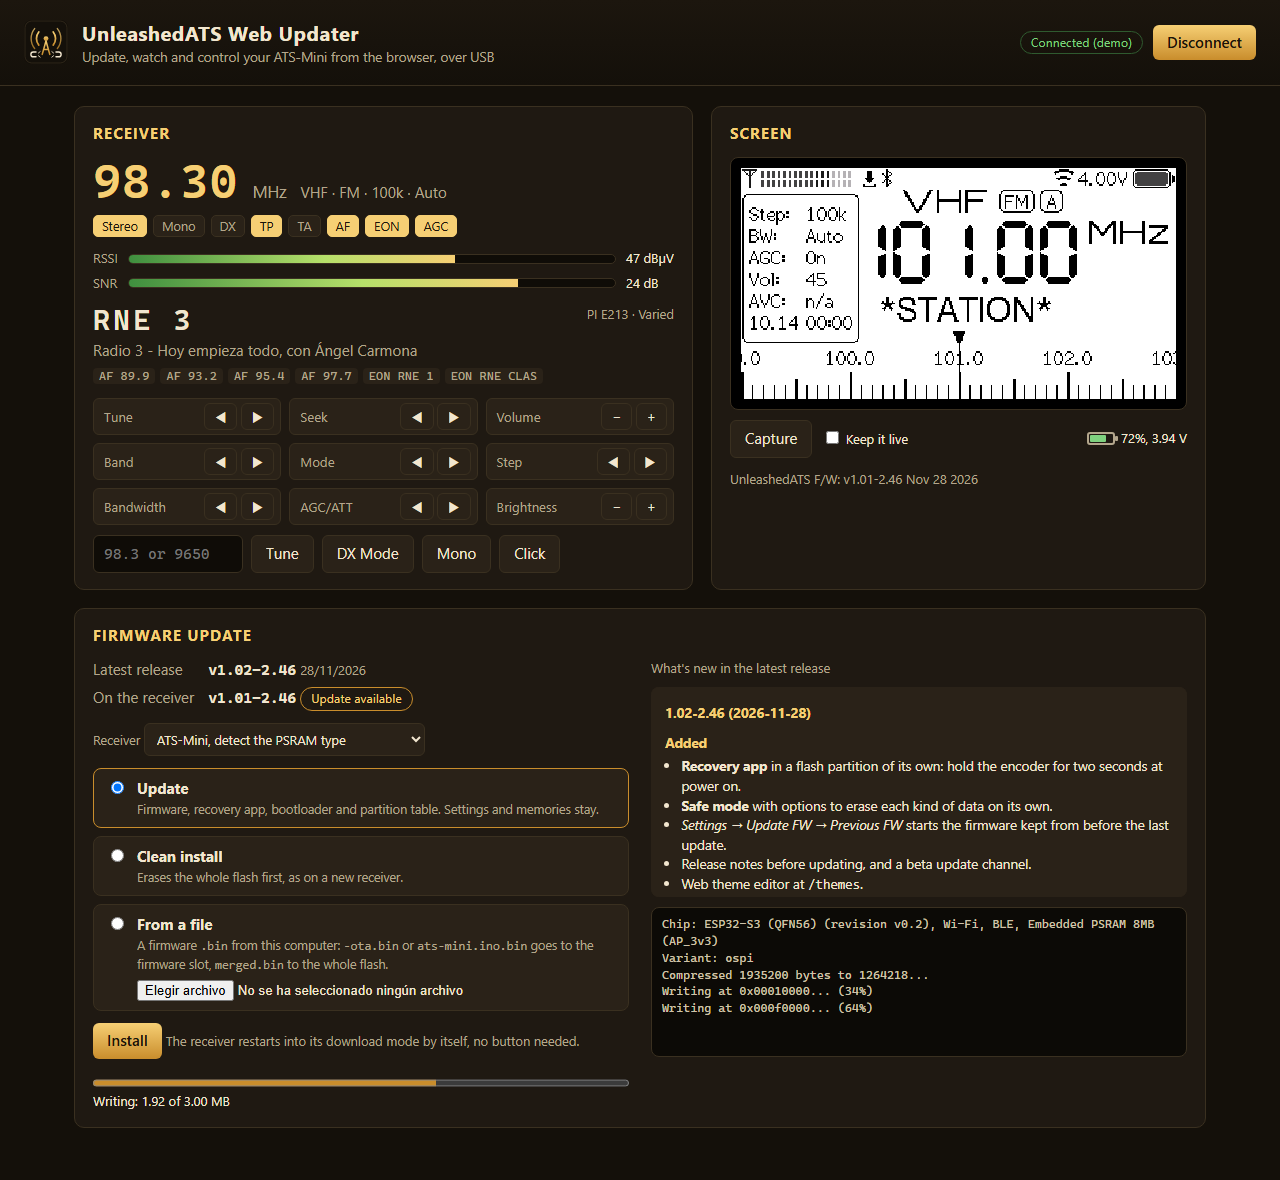
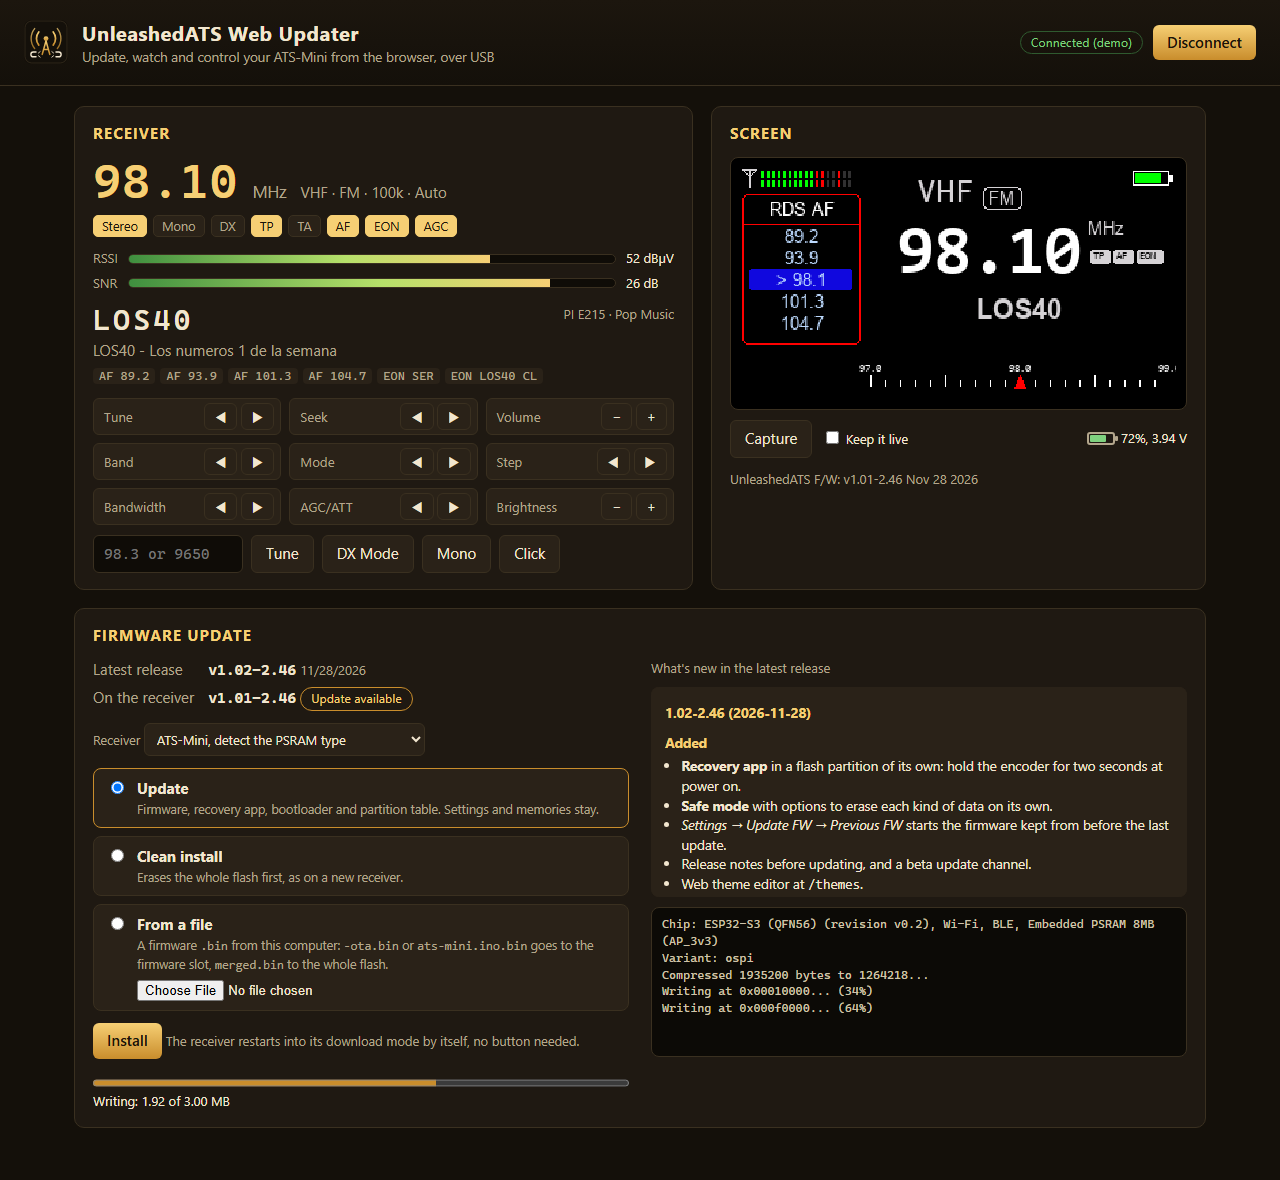
Use real receiver screens on the website
The hero and the gallery show screens captured from the receiver, one
per card with its caption as page text, and the updater and remote
pictures are taken again with matching data.

diff --git a/site/index.html b/site/index.html
@@ -73,8 +73,8 @@
   .device { background: linear-gradient(160deg, #3a2f26, #1d1712); border-radius: 34px; padding: 22px; box-shadow: 0 40px 70px -30px rgba(60, 30, 5, .55);
             transform: rotate(-2.5deg); transition: transform .6s cubic-bezier(.2, .9, .3, 1.2); }
   .device:hover { transform: rotate(0deg) scale(1.02); }
-  .device .screen { border-radius: 16px; overflow: hidden; aspect-ratio: 975 / 520; background: #000; }
-  .device .screen img { width: 204%; max-width: none; margin: -3% 0 0 -1.2%; }
+  .device .screen { border-radius: 16px; overflow: hidden; aspect-ratio: 320 / 170; background: #000; }
+  .device .screen img { width: 100%; height: 100%; object-fit: cover; image-rendering: pixelated; }
   .device .knob { display: flex; justify-content: space-between; align-items: center; margin-top: 16px; color: #b9a58a; font-weight: 800; font-size: .9em; }
   .device .knob i { width: 46px; height: 46px; border-radius: 50%; background: radial-gradient(circle at 35% 30%, #6b5a4a, #2a211a); box-shadow: inset 0 2px 4px rgba(255, 255, 255, .12), 0 6px 14px rgba(0, 0, 0, .4); }
 
@@ -98,7 +98,14 @@
   .why .card .icon { flex: none; margin: 0; }
 
   /* Gallery */
-  .shots { display: grid; grid-template-columns: 1.4fr 1fr; gap: 22px; }
+  .screens { display: grid; grid-template-columns: repeat(auto-fill, minmax(300px, 1fr)); gap: 22px; margin-bottom: 22px; }
+  .tile { margin: 0; background: var(--card); border-radius: var(--radius); padding: 12px; box-shadow: var(--shadow); transition: transform .35s cubic-bezier(.2, .9, .3, 1.3), box-shadow .35s; }
+  .tile:hover { transform: translateY(-6px) rotate(-.6deg); box-shadow: var(--shadow-hover); }
+  .tile img { border-radius: 14px; background: #000; aspect-ratio: 320 / 170; width: 100%; image-rendering: pixelated; }
+  .tile figcaption { padding: 10px 6px 2px; }
+  .tile b { display: block; font-weight: 800; }
+  .tile span { color: var(--muted); font-size: .92em; }
+  .shots { display: grid; grid-template-columns: 1fr 1fr; gap: 22px; }
   @media (max-width: 900px) { .shots { grid-template-columns: 1fr; } }
   .shot { background: var(--card); border-radius: var(--radius); padding: 14px; box-shadow: var(--shadow); transition: transform .35s; }
   .shot:hover { transform: translateY(-5px); }
@@ -164,7 +171,7 @@
       </div>
     </div>
     <div class="device reveal">
-      <div class="screen"><img src="assets/welcome.png" alt="The UnleashedATS welcome screen on the receiver"></div>
+      <div class="screen"><img src="assets/screens/rds-af.png" alt="The receiver on 98.1 MHz with its RDS AF list open"></div>
       <div class="knob"><span>ATS-Mini · UnleashedATS</span><i></i></div>
     </div>
   </div>
@@ -212,13 +219,21 @@
   <div class="wrap">
     <div class="kicker">Have a look</div>
     <h2>On the receiver and on your screen</h2>
-    <p class="intro">The new menus on the receiver, the FM-DX style remote and the web updater.</p>
+    <p class="intro">Real screens of the receiver running UnleashedATS, the FM-DX style remote and the web updater.</p>
+    <div class="screens">
+      <figure class="tile reveal"><img src="assets/screens/menu.png" alt=""><figcaption><b>New menu entries</b><span>Mem Scan, Auto Store, Stations, RDS AF and EON</span></figcaption></figure>
+      <figure class="tile reveal"><img src="assets/screens/stations-spain.png" alt=""><figcaption><b>Stations by province</b><span>Browse your country's list and tune</span></figcaption></figure>
+      <figure class="tile reveal"><img src="assets/screens/listed-name.png" alt=""><figcaption><b>Names without RDS</b><span>Your province's stations, named on screen</span></figcaption></figure>
+      <figure class="tile reveal"><img src="assets/screens/rds-af.png" alt=""><figcaption><b>RDS AF list</b><span>Every frequency of the station, ready to tune</span></figcaption></figure>
+      <figure class="tile reveal"><img src="assets/screens/eon-networks.png" alt=""><figcaption><b>RDS EON</b><span>The other networks a station announces</span></figcaption></figure>
+      <figure class="tile reveal"><img src="assets/screens/auto-store.png" alt=""><figcaption><b>Auto Store</b><span>Fill the memories from a band sweep</span></figcaption></figure>
+      <figure class="tile reveal"><img src="assets/screens/mem-scan.png" alt=""><figcaption><b>Mem Scan</b><span>Hop through the memories that are live</span></figcaption></figure>
+      <figure class="tile reveal"><img src="assets/screens/dx-mode.png" alt=""><figcaption><b>DX Mode</b><span>For the weakest stations</span></figcaption></figure>
+      <figure class="tile reveal"><img src="assets/screens/load-europe.png" alt=""><figcaption><b>Load Stations</b><span>Pick a country to download</span></figcaption></figure>
+    </div>
     <div class="shots">
-      <figure class="shot reveal" style="margin:0"><img src="assets/menus.png" alt="The new menus on the receiver"><figcaption>Mem Scan, Auto Store, station lists, RDS AF and EON, DX Mode</figcaption></figure>
-      <div class="stack">
-        <figure class="shot reveal" style="margin:0"><img src="assets/remote.png" alt="The FM-DX style remote page"><figcaption>The FM-DX style remote</figcaption></figure>
-        <figure class="shot reveal" style="margin:0"><img src="assets/updater.png" alt="The web updater"><figcaption>The web updater, with the receiver live</figcaption></figure>
-      </div>
+      <figure class="shot reveal" style="margin:0"><img src="assets/remote.png" alt="The FM-DX style remote page"><figcaption>The FM-DX style remote, on the receiver's own web server</figcaption></figure>
+      <figure class="shot reveal" style="margin:0"><img src="assets/updater.png" alt="The web updater"><figcaption>The web updater, with the receiver live while it installs</figcaption></figure>
     </div>
   </div>
 </section>

diff --git a/site/update/index.html b/site/update/index.html
@@ -376,7 +376,7 @@ async function shoot() {
   if (shooting || (!port && !DEMO)) return;
   shooting = true;
   try {
-    if (DEMO) { $('screen').src = '../assets/screen-main.png'; return; }
+    if (DEMO) { $('screen').src = '../assets/screens/rds-af.png'; return; }
     const wasOn = monitorOn;
     if (wasOn) { await send('J'); monitorOn = false; await new Promise((r) => setTimeout(r, 200)); }
     const bmp = await new Promise((resolve, reject) => {
@@ -517,10 +517,10 @@ loadLatest();
 
 if (DEMO) {
   linkState('Connected (demo)', 'ok'); $('connect').textContent = 'Disconnect'; $('shot').disabled = false;
-  showStatus({ fw: 'UnleashedATS F/W: v1.01-2.46 Nov 28 2026', freq: 98300000, band: 'VHF', mode: 'FM', step: '100k', bw: 'Auto',
-    agc: 0, vol: 35, rssi: 47, snr: 24, stereo: true, dx: false, mono: false, tp: true, ta: false,
-    batt_v: '3.94', batt_pct: 72, ps: 'RNE 3', pi: 'E213', pty: 'Varied', rt: 'Radio 3 - Hoy empieza todo, con Ángel Carmona',
-    af: [89900000, 93200000, 95400000, 97700000], eon: [{ pi: 'E211', ps: 'RNE 1' }, { pi: 'E212', ps: 'RNE CLAS' }] });
+  showStatus({ fw: 'UnleashedATS F/W: v1.01-2.46 Nov 28 2026', freq: 98100000, band: 'VHF', mode: 'FM', step: '100k', bw: 'Auto',
+    agc: 0, vol: 35, rssi: 52, snr: 26, stereo: true, dx: false, mono: false, tp: true, ta: false,
+    batt_v: '3.94', batt_pct: 72, ps: 'LOS40', pi: 'E215', pty: 'Pop Music', rt: 'LOS40 - Los numeros 1 de la semana',
+    af: [89200000, 93900000, 101300000, 104700000], eon: [{ pi: 'E211', ps: 'SER' }, { pi: 'E2A1', ps: 'LOS40 CL' }] });
   shoot();
   if (DEMO === 'flash') { document.querySelector('input[value=keep]').checked = true; progress(64, 'Writing: 1.92 of 3.00 MB');
     log('Chip: ESP32-S3 (QFN56) (revision v0.2), Wi-Fi, BLE, Embedded PSRAM 8MB (AP_3v3)');
